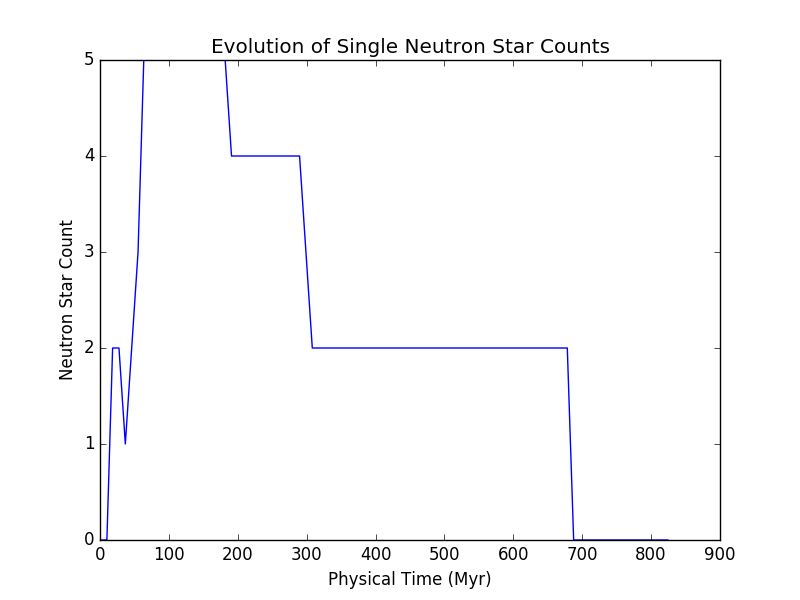
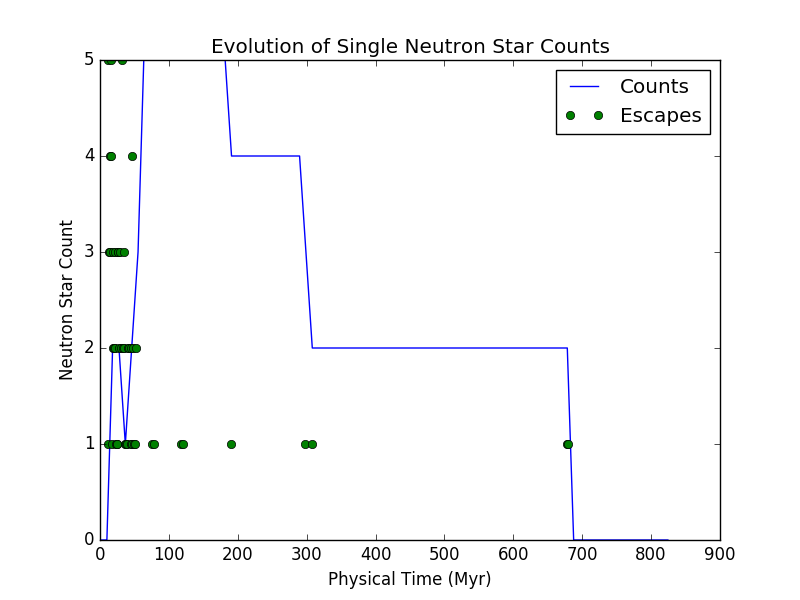
Add get_single_escape_data function.

diff --git a/scripts/neutron_stars.py b/scripts/neutron_stars.py
@@ -103,13 +103,57 @@ def get_binary_data():
 
     return (timesteps, starcounts)
 
+def get_single_escape_data():
+    """Returns the number of escaped neutron stars with physical times.
+
+    For single stars only, not binary stars!
+
+    return format:
+        (
+            [physical_time_1, physical_time_2, ...],
+            [#_of_escaped_neutron_stars_1, #_of_escaped_neutron_stars_2, ...]
+        )
+
+        Ordered according to physical time.
+    """
+    filename = os.path.join(DATA_DIR, "esc.11")
+
+    timesteps = [] # Will hold the physical times from each file
+    starcounts = [] # Will hold numbers of escaped neutron stars at each timestep.
+    with open(filename, 'r') as f:
+        # Skip the header
+        next(f)
+
+        for line in f:
+            data_line = line.split()
+            # 5th item in row is star type
+            type = data_line[4]
+
+            if int(type) == NEUTRON_STAR:
+                # Physical time is the first item in each line
+                time = data_line[0]
+                # If timestep is same as previous line, update instead of add data.
+                last_ind = len(timesteps) - 1
+                if last_ind >= 0 and timesteps[last_ind] == time:
+                    starcounts[last_ind] += 1
+                else:
+                    timesteps.append(time)
+                    starcounts.append(1)
+
+    return (timesteps, starcounts)
+
+
 def main():
-    single_data = get_single_data()
-    plt.plot(single_data[0], single_data[1])
+    single = get_single_data()
+    single_escape = get_single_escape_data()
+    plt.plot(single[0], single[1], label="Counts")
+    plt.plot(single_escape[0], single_escape[1], 'o', label="Escapes")
     plt.title("Evolution of Single Neutron Star Counts")
     plt.xlabel("Physical Time (Myr)")
     plt.ylabel("Neutron Star Count")
+    plt.legend()
     plt.savefig("output/single_counts.png")
+
     plt.clf()
 
     binary_data = get_binary_data()
